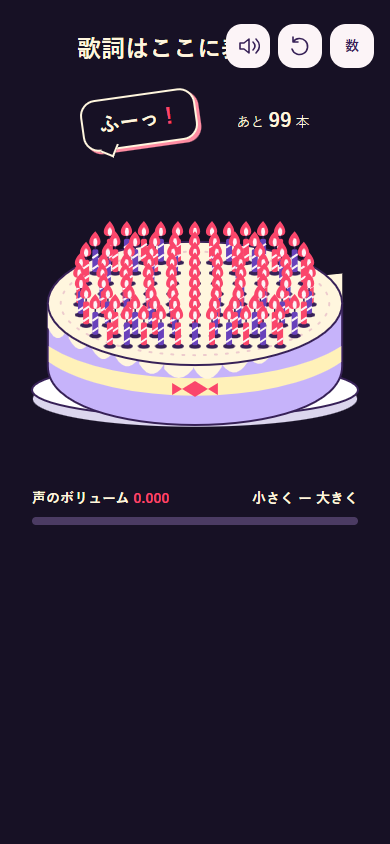
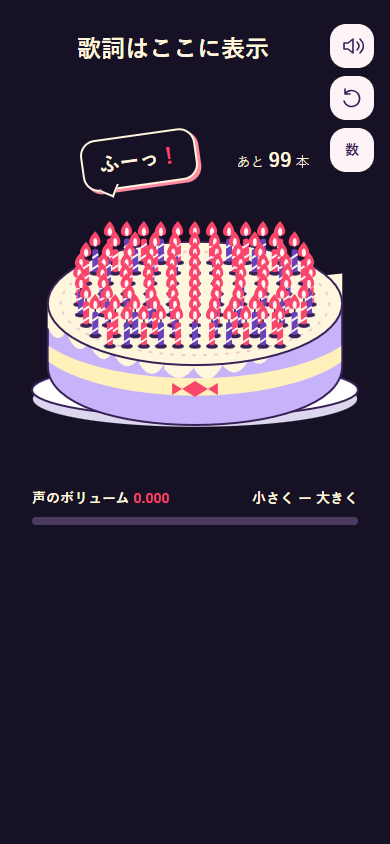
Separate stage controls and smoke

diff --git a/dist/style.css b/dist/style.css
@@ -107,11 +107,11 @@ body[data-scene="song"], body[data-scene="blackout"] { background: var(--color-d
 .party:not([data-scene="entry"]) .brand, .party:not([data-scene="entry"]) .message-card { display: none; }
 .party:not([data-scene="entry"]) .stage { height: calc(100svh - var(--space-4)); margin: 0; }
 .party:not([data-scene="entry"]) .cake-button { top: calc(var(--space-4) * 4 + var(--space-2)); }
-.party:not([data-scene="entry"]) .blow-cue { top: calc(var(--space-4) + var(--space-3)); }
+.party:not([data-scene="entry"]) .blow-cue { top: calc(var(--space-4) * 2 + var(--space-3)); }
 .party:not([data-scene="entry"]) .volume-area { top: calc(var(--space-4) * 11 + var(--space-3)); }
 .scene-copy { position: absolute; z-index: 2; top: var(--space-1); right: calc(44px + var(--space-3)); left: var(--space-3); text-align: center; }
 .song-lyrics { margin: 0; color: var(--color-dark-text); font-size: var(--font-large); font-weight: 900; line-height: 1.4; }
-.scene-controls { position: absolute; z-index: 4; top: 0; right: 0; display: flex; flex-wrap: wrap; justify-content: end; gap: var(--space-1); max-width: 100%; }
+.scene-controls { position: absolute; z-index: 4; top: 0; right: 0; display: flex; flex-direction: column; align-items: end; gap: var(--space-1); max-width: 100%; }
 .scene-controls .primary, .scene-controls .secondary { width: auto; min-width: calc(var(--space-4) * 4); }
 .celebration-copy { color: var(--color-text); }
 .celebration-copy h2 { margin: 0 0 var(--space-1); font-size: var(--font-medium); line-height: 1.4; }
@@ -123,7 +123,9 @@ body[data-scene="song"] .bubble::after { border-color: var(--color-dark-text); b
 body[data-scene="song"] .meter { background: #4b3b63; }
 body[data-scene="song"] .meter > div { background: var(--color-dark-emphasis); }
 body[data-scene="blackout"] .cake-button { opacity: .04; }
-.smoke { position: absolute; z-index: 3; top: calc(var(--space-4) * 5); left: 0; width: 100%; display: flex; justify-content: center; gap: var(--space-3); }
-.smoke span { display: block; width: 2px; height: var(--space-3); border-radius: var(--radius); background: var(--color-dark-text); opacity: .7; animation: smoke 700ms ease-out infinite alternate; }
-.smoke span:nth-child(2n) { animation-delay: -350ms; }
-@keyframes smoke { from { transform: translateY(0); opacity: .65; } to { transform: translateY(calc(var(--space-2) * -1)); opacity: .1; } }
+.smoke { position: absolute; z-index: 3; top: calc(var(--space-4) * 5 + var(--space-2)); left: 0; width: 100%; display: flex; justify-content: center; gap: var(--space-4); }
+.smoke span { --turn: 0deg; display: block; width: var(--space-1); height: var(--space-2); border-left: 2px solid var(--color-dark-text); border-radius: 50%; background: transparent; opacity: .28; animation: smoke 700ms ease-out infinite alternate; }
+.smoke span:nth-child(2) { --turn: -18deg; animation-delay: -350ms; }
+.smoke span:nth-child(3) { --turn: 16deg; animation-delay: -180ms; }
+.smoke span:nth-child(n + 4) { display: none; }
+@keyframes smoke { from { transform: rotate(var(--turn)) translateY(0); opacity: .28; } to { transform: rotate(var(--turn)) translateY(calc(var(--space-1) * -1)); opacity: .05; } }
